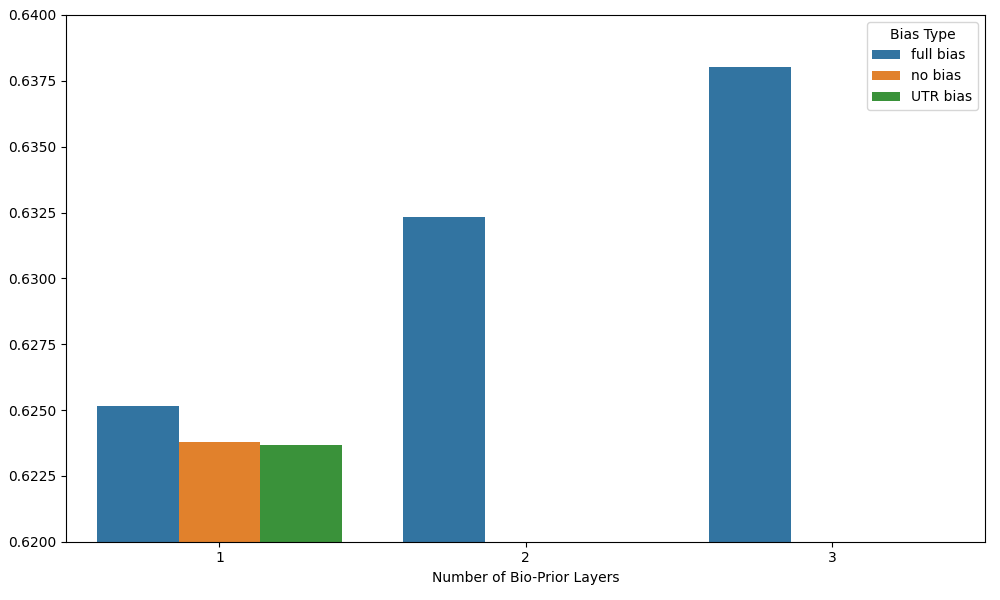
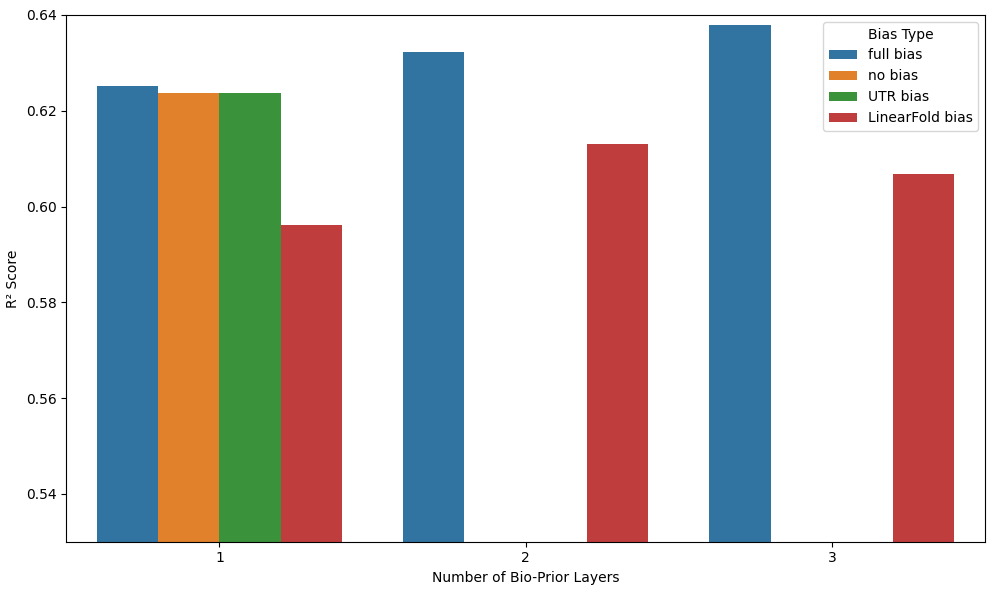
integrate linearfold bias results

diff --git a/barplot.py b/barplot.py
@@ -12,7 +12,10 @@ paths = ["/scratch/izar/gabboud/mRNABERT/outputs/biased_head_wc_utr5_cds_1024_fr
          "/scratch/izar/gabboud/mRNABERT/outputs/biased_head_wc_utr5_cds_1024_unfrozen_2_layer_full_bias",
          "/scratch/izar/gabboud/mRNABERT/outputs/biased_head_wc_utr5_cds_1024_unfrozen_3_layer_full_bias",
          "/scratch/izar/gabboud/mRNABERT/outputs/biased_head_wc_utr5_cds_1024_frozen_1_layer_no_bias",
-         "/scratch/izar/gabboud/mRNABERT/outputs/biased_head_wc_utr5_cds_1024_frozen_1_layer_utr_bias"]
+         "/scratch/izar/gabboud/mRNABERT/outputs/biased_head_wc_utr5_cds_1024_frozen_1_layer_utr_bias",
+         "/scratch/izar/gabboud/mRNABERT/outputs/biased_head_wc_full_1024_frozen_1_layer_lf_bias",
+         "/scratch/izar/gabboud/mRNABERT/outputs/biased_head_wc_full_1024_frozen_2_layer_lf_bias",
+         "/scratch/izar/gabboud/mRNABERT/outputs/biased_head_wc_full_1024_frozen_3_layer_lf_bias"]
 
 
 
@@ -22,7 +25,7 @@ row_list = []
 for path in paths:
     frozen = False if "unfrozen" in path else True
     num_layers = int(path.split("_")[-4])
-    bias_type = "full bias" if "full_bias" in path else ("UTR bias" if "utr_bias" in path else "no bias")
+    bias_type = "full bias" if "full_bias" in path else ("UTR bias" if "utr_bias" in path else ("LinearFold bias" if "lf_bias" in path else "no bias"))
     with open(f"{path}/results/{path.split('/')[-1]}/test_results.json") as f:
         json_content = json.load(f)
     row_list.append({
@@ -43,7 +46,7 @@ sns.barplot(x="Number of Bio-Prior Layers", y="R² Score", hue="Bias Type", data
 #plt.ylabel("R² Score")
 #plt.xticks(rotation=15)
 plt.tight_layout()
-plt.ylim(0.62,0.64)
+plt.ylim(0.53,0.64)
 plt.savefig("figures/bioprior_bias_type.png")
 
 